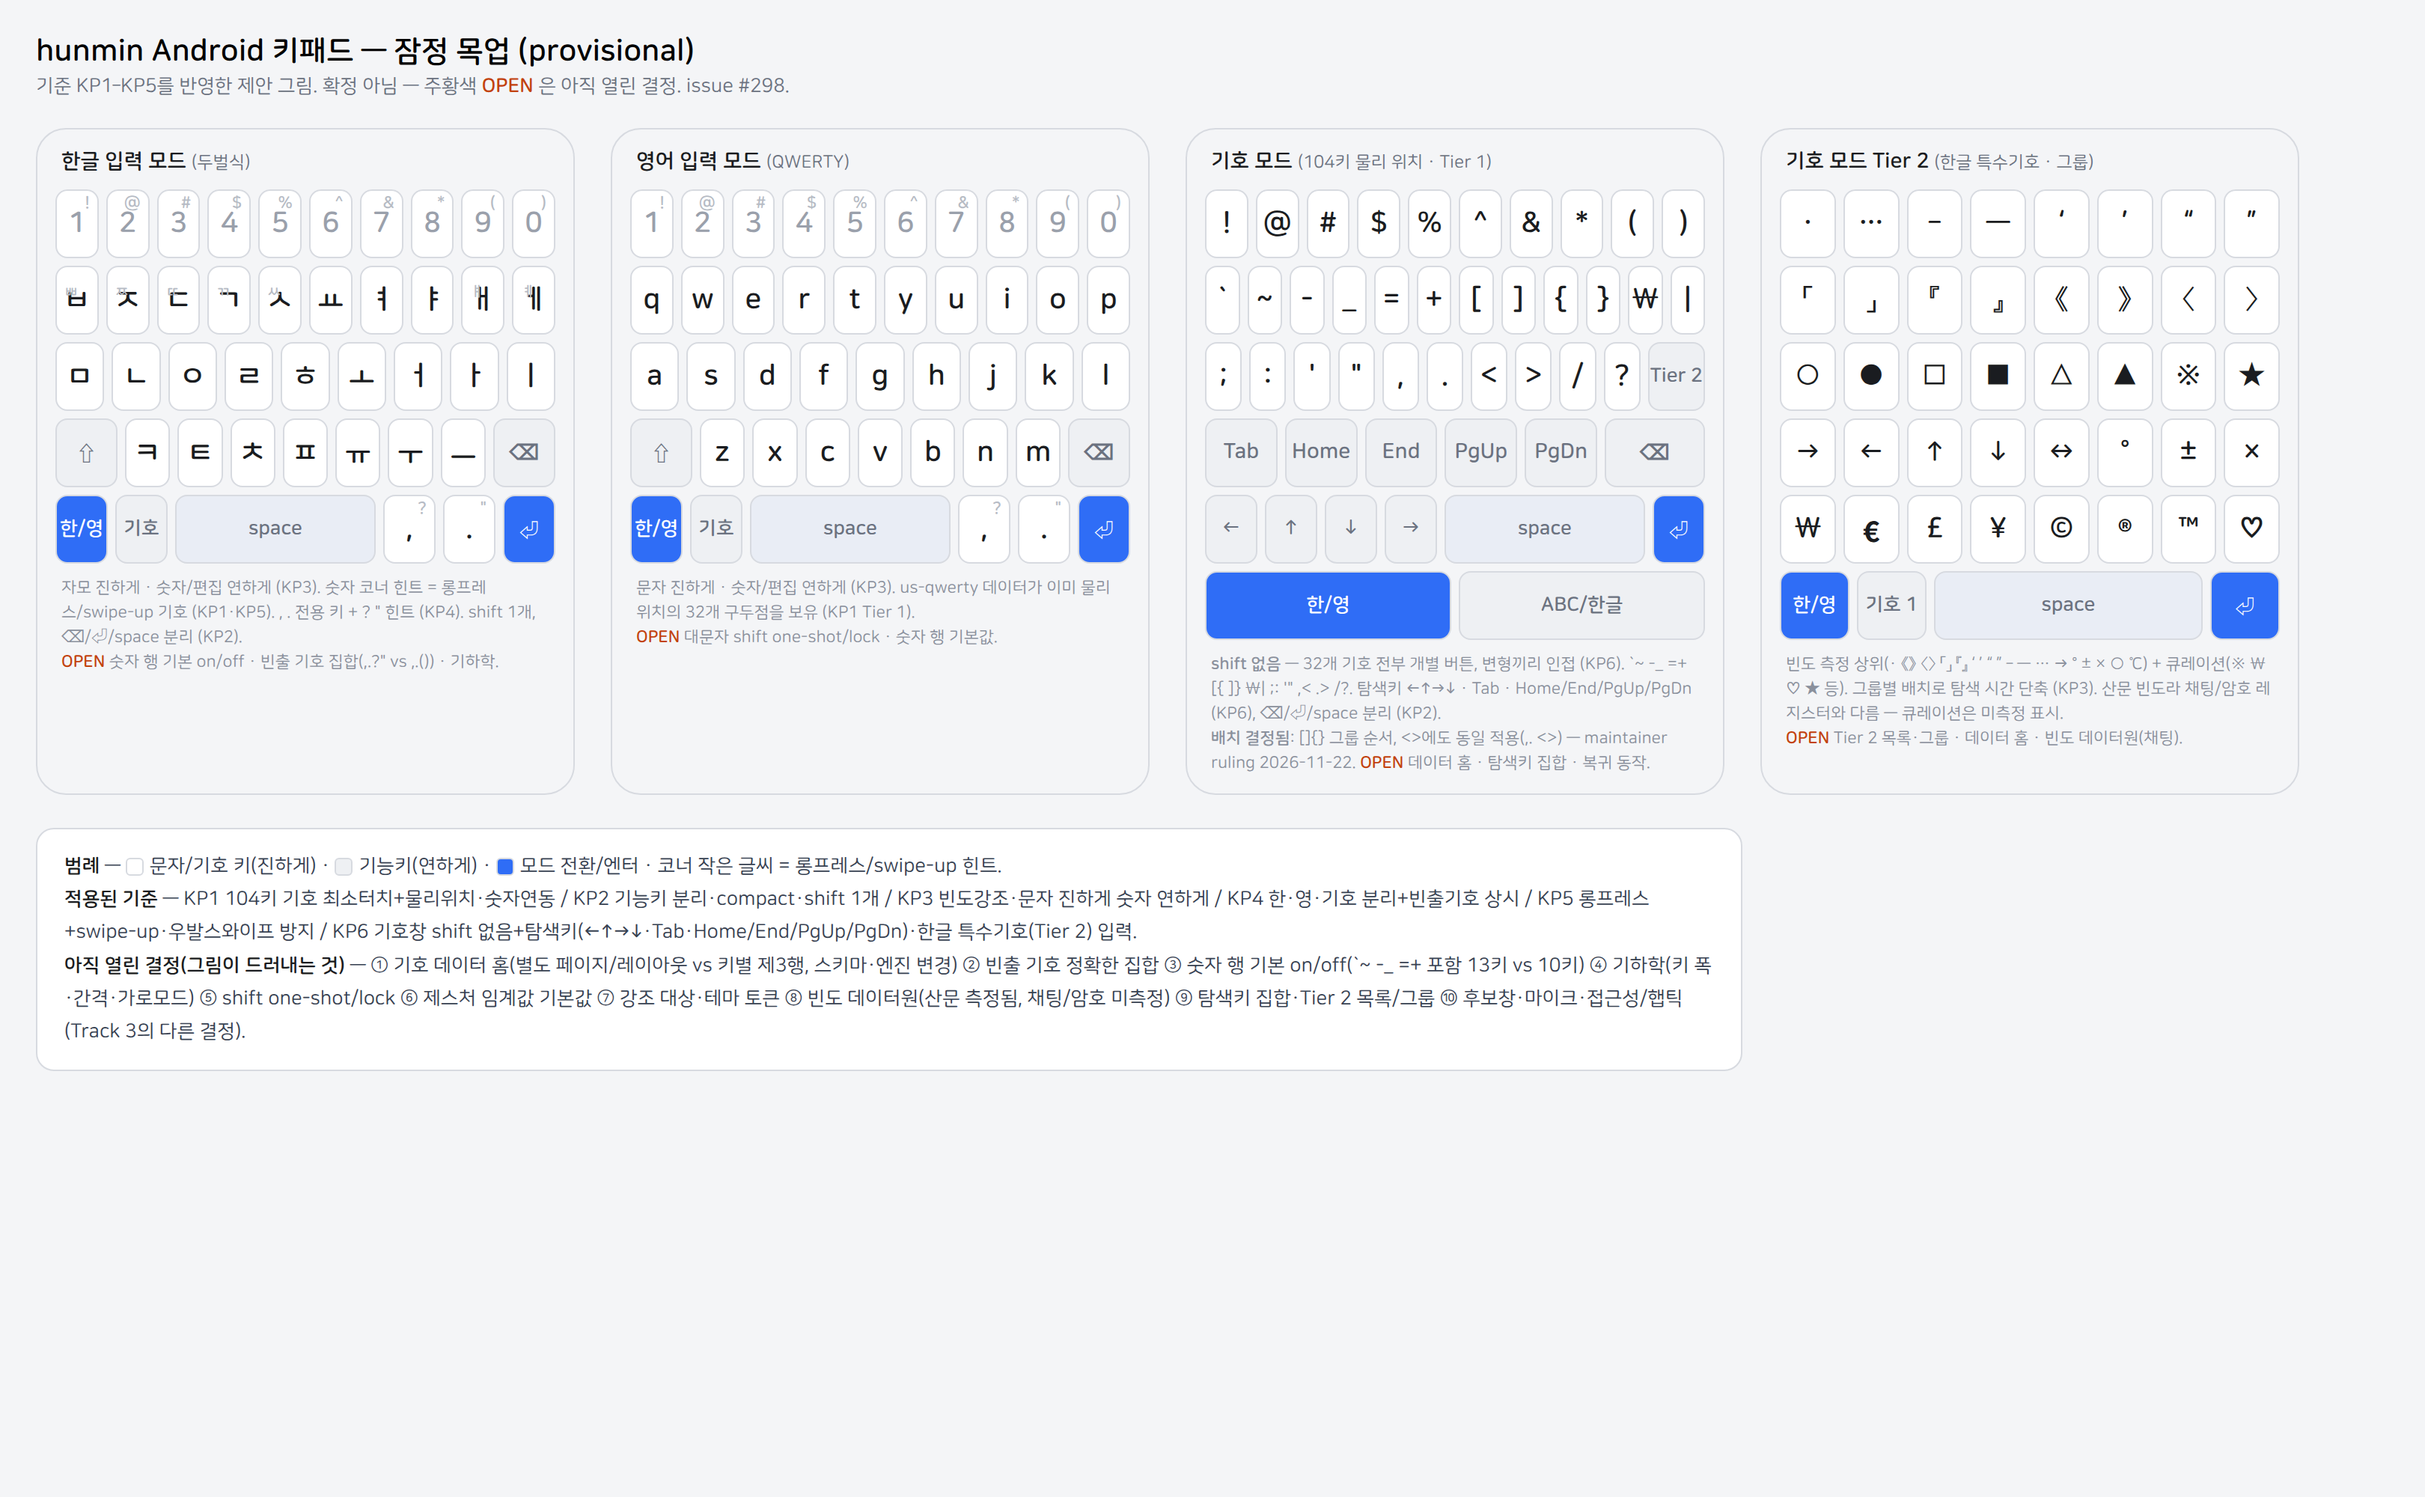
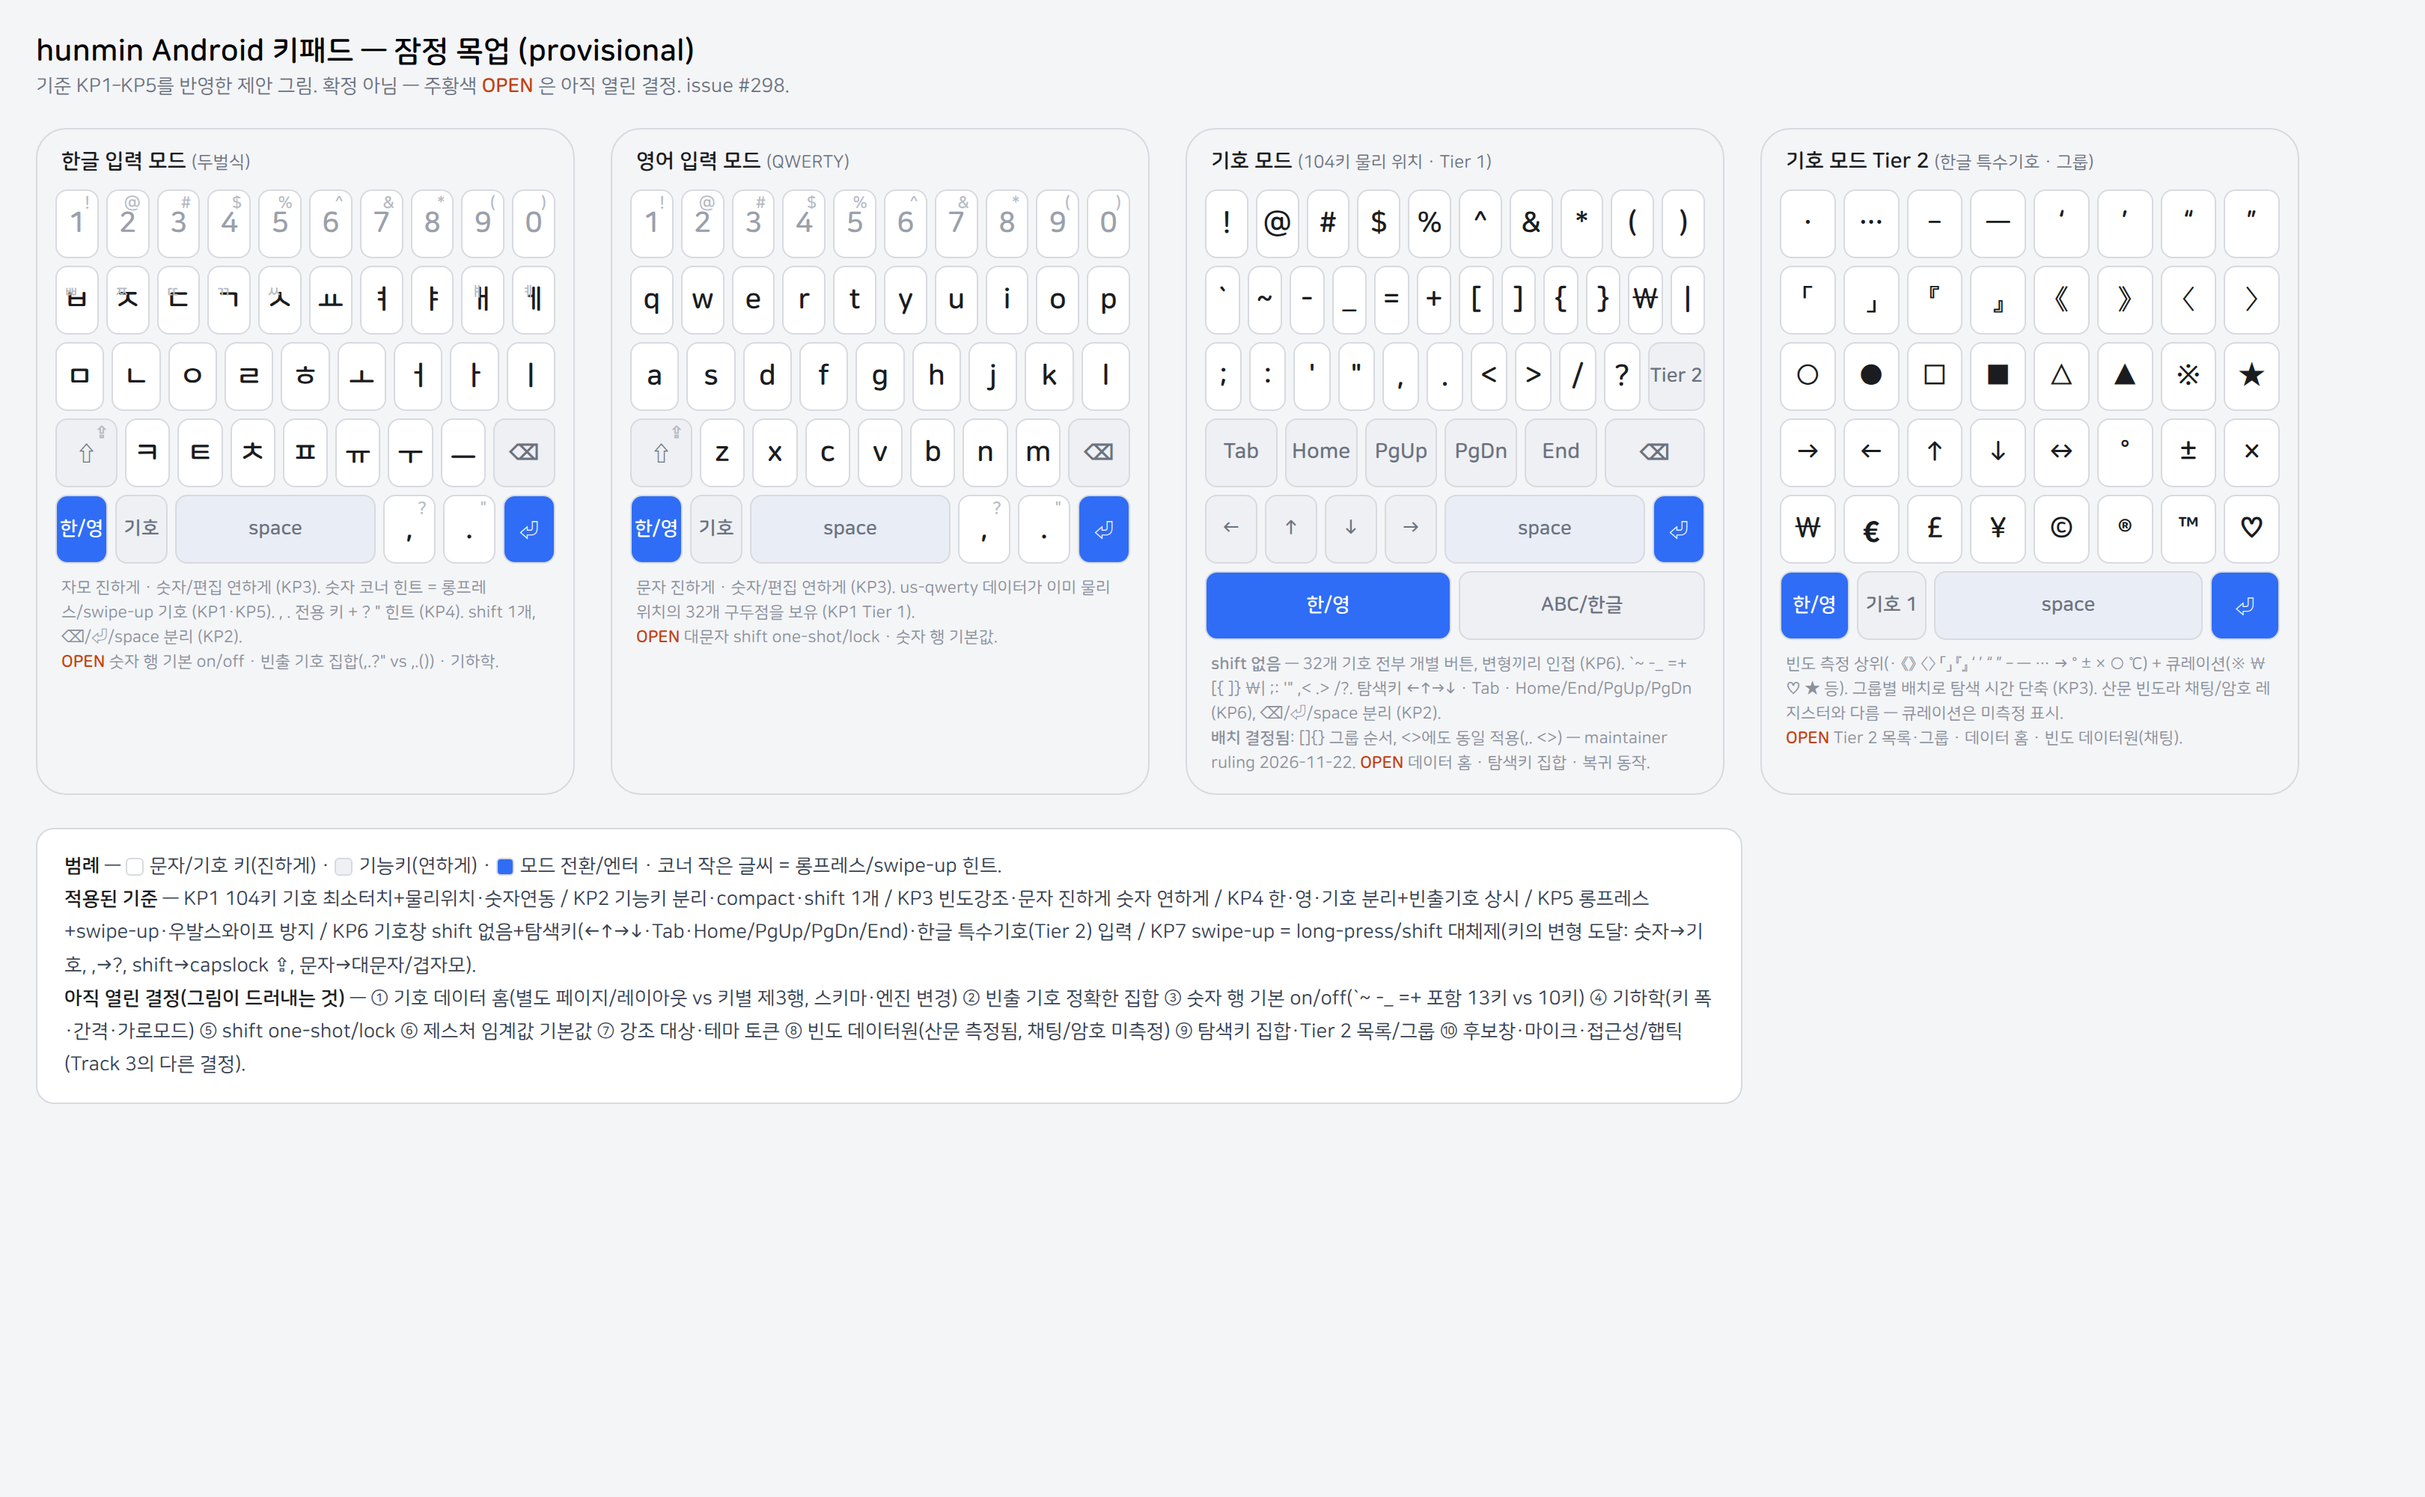
docs(android): KP7 swipe-up universal substitute; nav order Home/PgUp/PgDn/End (#298)
KP7 (stated direction): swipe-up on a key reaches its alternate, as a substitute
for long-press or shift. Instances: number->symbol, ,->?, .->", shift->capslock
(tap = one-shot), letter/jamo->shifted form (q->Q, ㅂ->ㅃ). Grounded in Unexpected
Keyboard's press/swipe key-value model and FlorisBoard ShiftKeyBehavior
(CAPSLOCK_BY_DOUBLE_TAP / _BY_CYCLE). KP5 accidental-swipe defences apply to all.
Recorded the glide-typing conflict on letter keys (hunmin has no glide today;
adding it later would need disambiguation) and the open shift-unlock detail.
Added to SPEC-ANDROID-KEYPAD, REQ-MAP (parent A2), overview index, analysis doc.

Nav-key order decided (verbatim): "home pgup pgdn end 순서로 변경." Editing cluster
now Home/PgUp/PgDn/End (Tab leading, backspace trailing); recorded in KP6.

Mockup: shift keys show a ⇪ capslock swipe hint; nav row reordered; legend adds
KP7; PNG re-rendered. Mockup doc wireframe + criteria updated.

req-map 82 rows; docs-lint/wiki-lint 0 errors.

Refs #298

Changed region(s): [[0.0312, 0.62, 0.717, 0.713], [0.6235, 0.279, 0.6546, 0.31], [0.5611, 0.279, 0.5923, 0.31]]

diff --git a/docs/android-keypad-mockup.html b/docs/android-keypad-mockup.html
@@ -84,7 +84,7 @@
         <div class="key">ㅓ</div><div class="key">ㅏ</div><div class="key">ㅣ</div>
       </div>
       <div class="krow">
-        <div class="key fn shift">⇧</div>
+        <div class="key fn shift">⇧<span class="hint">⇪</span></div>
         <div class="key">ㅋ</div><div class="key">ㅌ</div><div class="key">ㅊ</div>
         <div class="key">ㅍ</div><div class="key">ㅠ</div><div class="key">ㅜ</div>
         <div class="key">ㅡ</div>
@@ -132,7 +132,7 @@
         <div class="key">j</div><div class="key">k</div><div class="key">l</div>
       </div>
       <div class="krow">
-        <div class="key fn shift">⇧</div>
+        <div class="key fn shift">⇧<span class="hint">⇪</span></div>
         <div class="key">z</div><div class="key">x</div><div class="key">c</div>
         <div class="key">v</div><div class="key">b</div><div class="key">n</div>
         <div class="key">m</div>
@@ -177,9 +177,9 @@
       <div class="krow">
         <div class="key fn">Tab</div>
         <div class="key fn">Home</div>
-        <div class="key fn">End</div>
         <div class="key fn">PgUp</div>
         <div class="key fn">PgDn</div>
+        <div class="key fn">End</div>
         <div class="key fn bspace">⌫</div>
       </div>
       <div class="krow">
@@ -253,7 +253,8 @@
     코너 작은 글씨 = 롱프레스/swipe-up 힌트.<br>
     <b>적용된 기준</b> — KP1 104키 기호 최소터치+물리위치·숫자연동 / KP2 기능키 분리·compact·shift 1개 /
     KP3 빈도강조·문자 진하게 숫자 연하게 / KP4 한·영·기호 분리+빈출기호 상시 / KP5 롱프레스+swipe-up·우발스와이프 방지 /
-    KP6 기호창 shift 없음+탐색키(←↑→↓·Tab·Home/End/PgUp/PgDn)·한글 특수기호(Tier 2) 입력.<br>
+    KP6 기호창 shift 없음+탐색키(←↑→↓·Tab·Home/PgUp/PgDn/End)·한글 특수기호(Tier 2) 입력 /
+    KP7 swipe-up = long-press/shift 대체제(키의 변형 도달: 숫자→기호, ,→?, shift→capslock ⇪, 문자→대문자/겹자모).<br>
     <b>아직 열린 결정(그림이 드러내는 것)</b> — ① 기호 데이터 홈(별도 페이지/레이아웃 vs 키별 제3행, 스키마·엔진 변경)
     ② 빈출 기호 정확한 집합 ③ 숫자 행 기본 on/off(`~ -_ =+ 포함 13키 vs 10키) ④ 기하학(키 폭·간격·가로모드) ⑤ shift one-shot/lock
     ⑥ 제스처 임계값 기본값 ⑦ 강조 대상·테마 토큰 ⑧ 빈도 데이터원(산문 측정됨, 채팅/암호 미측정)

diff --git a/docs/ANDROID-SYMBOL-INTERACTION.md b/docs/ANDROID-SYMBOL-INTERACTION.md
@@ -486,6 +486,44 @@ the curated marks say exactly that — measured here, not assumed. Making these
 inputtable is the data-home question of #298 (a Tier 2 symbol table/page); the
 inventory above is the candidate content, not a ruled layout.
 
+## Swipe-up as a universal substitute for long-press / shift (KP7)
+
+KP7 generalises KP5: **swipe-up on any key reaches that key's alternate**, standing
+in for long-press or shift. The model is `tap = base`, `swipe-up = alternate`,
+`long-press = popup of variants`:
+
+| key | tap | swipe-up | substitutes for |
+|---|---|---|---|
+| number `1` | `1` | `!` | shift+1 / long-press |
+| `,` | `,` | `?` | long-press |
+| `.` | `.` | `"` | long-press |
+| shift | one-shot shift | **capslock** | double-tap shift |
+| letter `q` / jamo `ㅂ` | `q` / `ㅂ` | `Q` / `ㅃ` | shift+key (single char) |
+
+**Prior art.** Unexpected Keyboard defines a key by "what it does when pressed or
+swiped" — exactly this press/swipe alternate model. FlorisBoard's
+`ShiftKeyBehavior` is `CAPSLOCK_BY_DOUBLE_TAP` or `CAPSLOCK_BY_CYCLE`; swipe-up on
+shift is a gesture alternative to those for reaching capslock. So the principle
+is established practice, not a new invention.
+
+**The shift state machine.** Tap = one-shot shift (next key shifted, then revert);
+swipe-up = capslock (locked). How capslock *unlocks* (tap shift while locked, or
+swipe-up again) is an open detail. With swipe-up-on-letters available, a single
+capital or 겹자모 needs no shift press at all — shift stays for lock and for runs of
+shifted characters.
+
+**The one conflict to record.** On letter/jamo keys, swipe-up-for-shifted competes
+with **glide typing** (a word-glide also begins as a swipe on a letter).
+hunmin has no glide typing today, so the gesture is free; if glide is added later
+(a Track 3 question, currently out of scope) the two would need disambiguation
+(a vertical short swipe-up vs a longer glide path) or a user choice. On number,
+punctuation and shift keys there is no glide, so swipe-up is unambiguous there.
+
+The KP5 accidental-swipe defences (distance/direction/velocity gate,
+return-to-cancel, commit-on-release) apply to **every** such swipe, not just the
+number row. The net effect: shift and long-press become optional shortcuts rather
+than required mode switches, which is the interaction-count goal of KP1/KP3.
+
 ## What this means for a hunmin 두벌식 keypad
 
 The maintainer's goal — less time *finding* symbols and fewer mis-taps on a

diff --git a/docs/SPEC-ANDROID-KEYPAD.md b/docs/SPEC-ANDROID-KEYPAD.md
@@ -208,3 +208,35 @@ and Tier 2 inventory remain open (#298).
 The navigation-key set, the Tier 2 inventory/grouping, and the data home that
 makes them inputtable are open mechanism (#298). *Implementation:* none.
 *Refuted by:* none yet.
+
+Navigation-key order — decided (2026-11-22, verbatim): "home pgup pgdn end 순서로
+변경." So the editing cluster reads **Home · PgUp · PgDn · End** (Tab leading,
+⌫ trailing), not Home/End/PgUp/PgDn. The exact key set is still open; this fixes
+the order of those four.
+
+### KP7. Swipe-up as a universal substitute for long-press / shift (stated direction)
+
+The maintainer's words (2026-11-22, verbatim):
+
+> ",? 키에 swipe-up을 써서 ?를 입력하게 할 수 있을까? 그리고 shift도 swipe-up으로
+> capslock 처럼 동작하게 할 수 있니?"
+> "즉 swipe-up을 long-press 혹은 shift 대체제로 쓸 수 있게 하는 것."
+
+The general principle: **swipe-up on a key reaches that key's alternate**, as a
+substitute for long-press or shift. Instances:
+
+- punctuation `,` swipe-up → `?` (and `.` swipe-up → `"`);
+- number key swipe-up → its symbol (KP1/KP5);
+- **shift swipe-up → capslock** (tap = one-shot shift);
+- by extension a letter/jamo key swipe-up → its shifted form (`q`→`Q`,
+  `ㅂ`→`ㅃ`), substituting for shift+key on a single character.
+
+This is the press/swipe key-value model of Unexpected Keyboard ("what a key does
+when pressed or swiped"), and the shift→capslock gesture is an alternative to
+FlorisBoard's `CAPSLOCK_BY_DOUBLE_TAP` / `CAPSLOCK_BY_CYCLE`. The KP5
+accidental-swipe defences apply to every such swipe. One trade-off to record: on
+letter/jamo keys swipe-up-for-shifted competes with **glide typing** — hunmin has
+no glide typing today so the gesture is free, but adding glide later (a Track 3
+question) would conflict and need disambiguation or a choice. The shift state
+machine (how capslock unlocks) and whether swipe-up-on-letters is enabled are open
+mechanism. *Implementation:* none. *Refuted by:* none yet.

diff --git a/docs/ANDROID-KEYPAD-MOCKUP.md b/docs/ANDROID-KEYPAD-MOCKUP.md
@@ -56,7 +56,7 @@ Legend: `KEY` = character/symbol (진하게); `(fn)` = functional (연하게);
  ! @ # $ % ^ & * ( )                          (10)
  ` ~ - _ = + [ ] { } \ |                      (12, ` before -; brackets GROUPED []{})
  ; : ' " , . < > / ?  [Tier 2]                (10, comma/period grouped ,. <> too)
- (Tab) (Home) (End) (PgUp) (PgDn) (⌫)         ← NO shift (KP6); navigation keys instead
+ (Tab) (Home) (PgUp) (PgDn) (End) (⌫)         ← NO shift (KP6); nav order Home·PgUp·PgDn·End
  (←) (↑) (↓) (→) [   space   ] [⏎]
  [한/영] [ABC/한글]
 ```
@@ -92,8 +92,10 @@ minimal touch + physical positions, number-row pairing; KP2 functional keys
 separated/compact/non-physical, one shift; KP3 frequency placement + visual
 emphasis + whole-keypad hierarchy; KP4 mode separation + frequent symbols
 default-visible; KP5 long-press **and** swipe-up, accidental swipes preventable;
-KP6 symbol page no shift + navigation keys (arrows/Tab/Home/End/PgUp/PgDn) +
-Korean special symbols (Tier 2) inputtable.
+KP6 symbol page no shift + navigation keys (arrows/Tab/Home/PgUp/PgDn/End) +
+Korean special symbols (Tier 2) inputtable; KP7 swipe-up as a universal
+substitute for long-press/shift (number→symbol, `,`→`?`, shift→capslock ⇪,
+letter/jamo→shifted form).
 
 **The core decision still open in #298** — the symbol-layer **data home**, which
 the criteria narrow but do not settle:

diff --git a/docs/REQ-MAP.md b/docs/REQ-MAP.md
@@ -123,3 +123,4 @@ call**, and until it happens these ids live only in this table.
 | KP4 | docs/SPEC-ANDROID-KEYPAD.md#§KP4 — mode separation; very frequent symbols default-visible in Hangul/English mode | none | `docs/ANDROID-SYMBOL-INTERACTION.md` | none | none | none: direction stated by the maintainer 2026-11-22; exact symbol set/geometry open (#298) | A2 |
 | KP5 | docs/SPEC-ANDROID-KEYPAD.md#§KP5 — number-row symbols by long-press and swipe-up; accidental swipes preventable | none | `docs/ANDROID-SYMBOL-INTERACTION.md` | none | none | none: direction stated by the maintainer 2026-11-22; gesture-defence mechanism and display open (#298) | A2 |
 | KP6 | docs/SPEC-ANDROID-KEYPAD.md#§KP6 — symbol page no shift, navigation keys instead; Korean special symbols inputtable | none | `docs/ANDROID-SYMBOL-INTERACTION.md` | none | none | none: direction stated by the maintainer 2026-11-22; nav-key set / Tier 2 inventory / data home open (#298) | A2 |
+| KP7 | docs/SPEC-ANDROID-KEYPAD.md#§KP7 — swipe-up as a universal substitute for long-press / shift | none | `docs/ANDROID-SYMBOL-INTERACTION.md` | none | none | none: direction stated by the maintainer 2026-11-22; shift state machine / swipe-on-letters / glide conflict open (#298) | A2 |

diff --git a/wiki/log.md b/wiki/log.md
@@ -1393,3 +1393,18 @@ Verified: `python3 tools/docs-lint.py --build-dir build-msvc` (0 errors) and
   This sub-decision is settled; data home / nav-key set / Tier 2 inventory remain
   open (#298).
 
+## [2026-11-22] update | KP7 swipe-up universal substitute; nav-key order decided
+
+- Added KP7 to `docs/SPEC-ANDROID-KEYPAD.md` + REQ-MAP + overview index: swipe-up
+  on a key reaches its alternate, substituting for long-press/shift (number→symbol,
+  ,→?, .→", shift→capslock, letter/jamo→shifted). Grounded in Unexpected Keyboard's
+  press/swipe key-value model and FlorisBoard ShiftKeyBehavior (capslock by
+  double-tap/cycle). Recorded the glide-typing conflict on letter keys (hunmin has
+  no glide today) and the open shift-unlock detail. In
+  `docs/ANDROID-SYMBOL-INTERACTION.md`.
+- Nav-key order decided (verbatim): "home pgup pgdn end 순서로 변경." Editing
+  cluster now Home·PgUp·PgDn·End (Tab leading, ⌫ trailing). Mockup shift keys show
+  a ⇪ capslock swipe hint; HTML+PNG re-rendered; mockup doc +
+  [[2026-11-22-android-keypad-mockup]] updated. No verdict beyond the maintainer's
+  stated rulings.
+

diff --git a/docs/SPEC-OVERVIEW.md b/docs/SPEC-OVERVIEW.md
@@ -225,3 +225,4 @@ map and rerun.
 | KP4 | A2 | | |
 | KP5 | A2 | | |
 | KP6 | A2 | | |
+| KP7 | A2 | | |
